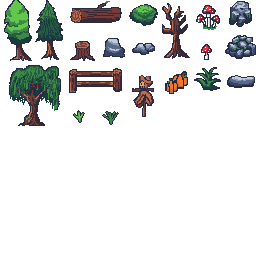
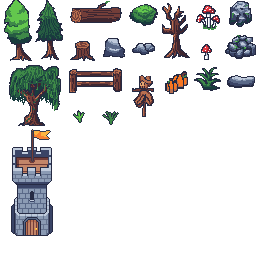
Added in new tower design

Changed region(s): [[0.0312, 0.5, 0.2188, 0.9375]]

diff --git a/dev/scripts/basicGameBg.js b/dev/scripts/basicGameBg.js
@@ -22,7 +22,9 @@ const MAP_OBJECTS = {
     flatRock:        { x: 224, y: 64, w: 32, h: 32 },
 
     grassTuft1:      { x: 64,  y: 96, w: 32, h: 32 },
-    grassTuft2:      { x: 96,  y: 96, w: 32, h: 32 }
+    grassTuft2:      { x: 96,  y: 96, w: 32, h: 32 },
+
+    tower:           { x: 0,   y: 128, w: 64, h: 108 }
 };
 
 class GameScreen {
@@ -271,30 +273,18 @@ class GameScreen {
             image(mapSprites, drawX, drawY, destW, destH, cut.x, cut.y, cut.w, cut.h);
         }
 
-        // Draw Tower in center
-        let towerX = this.towerX;
-        let towerY = this.towerY;
+        // Draw tower
+        let cut = MAP_OBJECTS['tower'];
+        let scaleFactor = 2;
 
-        // Tower body
-        fill(120);
-        stroke(60);
-        rect(towerX - 15, towerY - 20, 30, 45);
+        let destW = cut.w * scaleFactor;
+        let destH = cut.h * scaleFactor;
+        let drawX = this.towerX - destW / 2;
+        let drawY = this.towerY - destH / 2; // Centers
 
-        // Tower roof
-        fill(80);
-        triangle(
-            towerX - 20, towerY - 20,
-            towerX, towerY - 40,
-            towerX + 20, towerY - 20
-        );
-
-        // Tower door
-        fill(90, 60, 30);
-        rect(towerX - 5, towerY + 10, 10, 15);
-
-        // Tower window
-        fill(180, 220, 255);
-        rect(towerX - 5, towerY - 10, 10, 10);
+        if (typeof mapSprites !== 'undefined' && mapSprites && mapSprites.width > 0) {
+            image(mapSprites, drawX, drawY, destW, destH, cut.x, cut.y, cut.w, cut.h);
+        }
 
         // Draw top taskbar
         noStroke();
